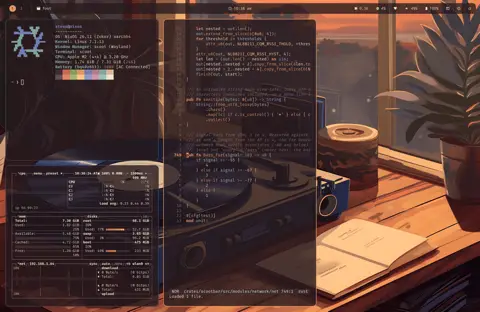
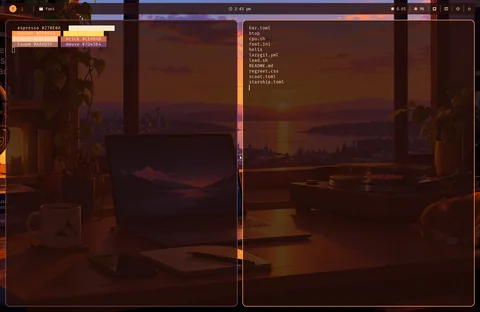
feat(looks): regenerate vinyl-sunset previews from a live session
Real headless screenshot (example configs, 1600x1040) with the
bundled wallpaper; site copy identical, home-page thumbnail
downscaled to 480 wide. Viewed before committing.

diff --git a/docs/examples/vinyl-sunset/README.md b/docs/examples/vinyl-sunset/README.md
@@ -7,7 +7,7 @@ scootbar or scootbg changes unless you use these files. The wallpaper ships
 in this repository (`docs/assets/wallpapers/vinyl-sunset.png`, under MIT;
 see "Image credit and license"), and [`scoot.toml`](scoot.toml) points at it.
 
-![scoot with the vinyl sunset look: a floating translucent bar with circled workspaces and the focused window's title over two translucent terminal columns (fastfetch over btop, Helix on scoot's source), the sunset illustration showing through on the right](../../assets/vinyl-sunset-preview.png)
+![scoot with the vinyl sunset look: a floating translucent bar with circled workspaces and the focused window's title over two translucent terminal columns (the look's palette as swatches, the example's file list), the desk-sunset wallpaper showing through](../../assets/vinyl-sunset-preview.png)
 
 | File | For |
 | --- | --- |
